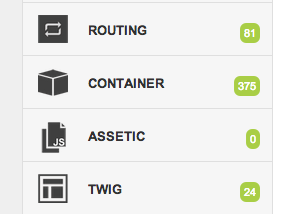
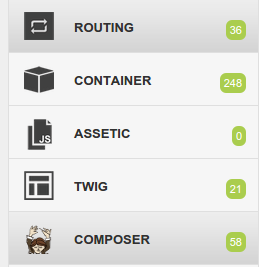
Composer data collector

diff --git a/DataCollector/ComposerDataCollector.php b/DataCollector/ComposerDataCollector.php
@@ -1,0 +1,103 @@
+<?php
+
+/**
+ * This file is part of the Symfony package.
+ *
+ * Inspired by Zeev Suraski and Z-Ray-Composer
+ *
+ * (c) Dmitry Maltsev <judgedim@gmail.com>
+ *
+ * For the full copyright and license information, please view the LICENSE
+ * file that was distributed with this source code.
+ */
+
+namespace Elao\WebProfilerExtraBundle\DataCollector;
+
+use Symfony\Component\HttpKernel\DataCollector\DataCollector;
+use Symfony\Component\HttpFoundation\Request;
+use Symfony\Component\HttpFoundation\Response;
+use Symfony\Component\HttpKernel\KernelInterface;
+
+/**
+ * ComposerDataCollector.
+ *
+ * @author Dmitry Maltsev <judgedim@gmail.com>
+ */
+class ComposerDataCollector extends DataCollector
+{
+    /**
+     * @var KernelInterface
+     */
+    protected $kernel;
+
+    /**
+     * @param KernelInterface $kernel
+     * @param bool            $displayInWdt True if the shortcut should be displayed
+     */
+    public function __construct(KernelInterface $kernel, $displayInWdt = true)
+    {
+        $this->kernel                 = $kernel;
+        $this->data['display_in_wdt'] = $displayInWdt;
+    }
+
+    /**
+     * {@inheritdoc}
+     */
+    public function collect(Request $request, Response $response, \Exception $exception = null)
+    {
+        $composerDir = $this->kernel->getRootDir() . '/../vendor/composer';
+        $json        = file_get_contents($composerDir . '/installed.json');
+        $data        = json_decode($json);
+        foreach ($data as $package) {
+            $entry             = [
+                'name'    => $package->name,
+                'version' => $package->version,
+                'source'  => $package->source->url,
+            ];
+            $entry['requires'] = (empty($package->require) ? array() : (array) $package->require);
+            if (!empty($package->authors)) {
+                $entry['authors'] = $package->authors;
+            }
+            if (!empty($package->homepage)) {
+                $entry['homepage'] = $package->homepage;
+            }
+            $this->data['packages'][$package->name] = $entry;
+        }
+    }
+
+    /**
+     * Returns an array of collected packages.
+     *
+     * @return array
+     */
+    public function getPackages()
+    {
+        return $this->data['packages'];
+    }
+
+    /**
+     * Returns the number of collected packages.
+     *
+     * @return integer
+     */
+    public function getPackageCount()
+    {
+        return count($this->data['packages']);
+    }
+
+    /**
+     * @return bool
+     */
+    public function getDisplayInWdt()
+    {
+        return $this->data['display_in_wdt'];
+    }
+
+    /**
+     * @return string
+     */
+    public function getName()
+    {
+        return 'composer';
+    }
+}

diff --git a/DependencyInjection/Configuration.php b/DependencyInjection/Configuration.php
@@ -55,6 +55,13 @@ class Configuration implements ConfigurationInterface
                         ->booleanNode('display_in_wdt')->defaultTrue()->end()
                     ->end()
                 ->end()
+                ->arrayNode('composer')
+                    ->addDefaultsIfNotSet()
+                    ->children()
+                        ->booleanNode('enabled')->defaultTrue()->end()
+                        ->booleanNode('display_in_wdt')->defaultTrue()->end()
+                    ->end()
+                ->end()
             ->end()
         ;
 

diff --git a/DependencyInjection/WebProfilerExtraExtension.php b/DependencyInjection/WebProfilerExtraExtension.php
@@ -31,6 +31,7 @@ class WebProfilerExtraExtension extends Extension
         'container' => 'container.xml',
         'assetic'   => 'assetic.xml',
         'twig'      => 'twig.xml',
+        'composer'  => 'composer.xml',
     );
 
     /**

diff --git a/README.md b/README.md
@@ -58,6 +58,9 @@ Most of the time, we need this bundle to be only activated in the `dev` environm
         twig:
             enabled:        true
             display_in_wdt: true
+        composer:
+            enabled:        true
+            display_in_wdt: true
 
 
 ## Install assets
